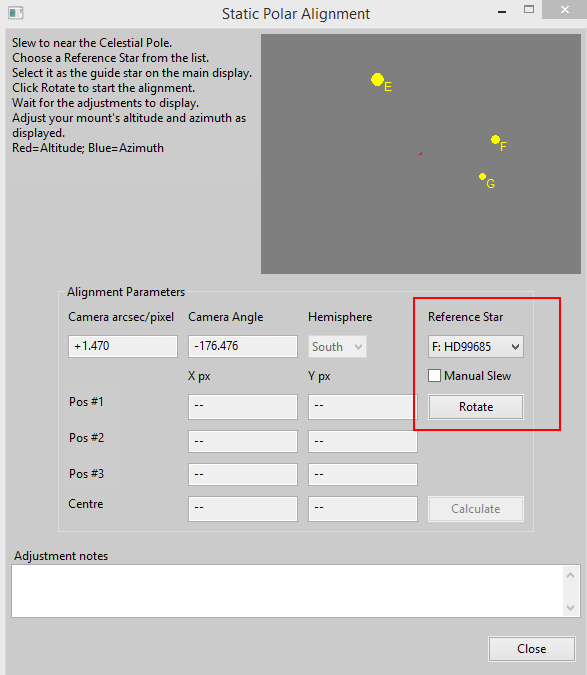
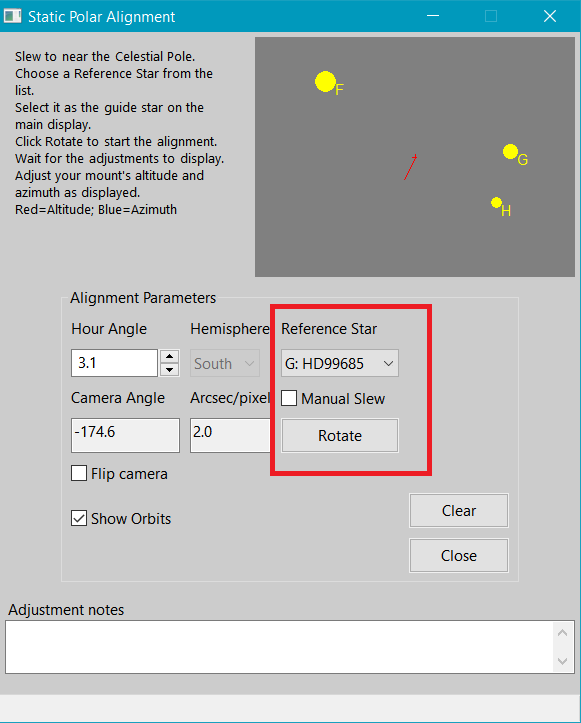
SPA tool revised tutorial

diff --git a/help/Tutorials.htm b/help/Tutorials.htm
@@ -160,10 +160,14 @@ The PHD2 main display would look like this (southern pole example):<br>
 <img style="width: 757px; height: 469px;" alt="" src="spa_IMG01a.png"><br>
 <br>
 <span style="">The
-image at the
+helper image at the
 top-right of the SPA window shows the approximate position of the polar
 stars
-oriented according to your PHD2 calibration and mount position. <o:p></o:p></span>
+oriented according to your PHD2 calibration and mount position. You can
+adjust the &#8216;Hour Angle&#8217; control or use the
+&#8216;Flip Camera&#8217; option to orient the
+helper image to the main display; or double click the helper image to
+alter its center point<o:p></o:p></span>
 <span style="">You have
 the option
 to use manual control by ticking the &#8216;Manual Slew&#8217; checkbox. Refer to
@@ -181,9 +185,9 @@ are ready
 to start aligning, click &#8216;Rotate&#8217;.<o:p></o:p></span>
 &nbsp;<span style="">The
 current
-position is indicated with a small blue circle on the main display. and
+position is indicated with a small blue circle on the main display, and
 the
-coordinates are added to Pos #1. Note that the &#8216;Rotate&#8217; button has
+coordinates are displayed in the status bar. Note that the &#8216;Rotate&#8217; button has
 changed to a
 &#8216;Stop&#8217; button. If you want to quit or stop the mount slewing, click the
 &#8216;Stop&#8217;
@@ -206,8 +210,7 @@ display.<o:p></o:p></span><br>
 made a
 mistake identifying your &#8216;Reference Star&#8217;, select the correct one in
 the
-drop-down list and click &#8216;Calculate&#8217; to re-display the Polar Alignment
-Overlay.</span>
+drop-down list.</span>
 <br>
 <span style="font-weight: normal;">Now
 follow the instructions
@@ -251,13 +254,16 @@ first window will open:<br>
 <br>
 <img style="width: 581px; height: 673px;" alt="" src="spa_IMG04.png"><br>
 <br>
-<span style="">The
+<span style="">The helper
 image at the
-top-right of the SPA window</span><span style="">shows
+top-right of the SPA window</span><span style=""> shows
 the
 approximate position of the polar stars oriented according to your
 calibration
-and the scope&#8217;s pointing position. </span>
+and the scope&#8217;s pointing position. You can
+adjust the &#8216;Hour Angle&#8217; control or use the &#8216;Flip Camera&#8217; option to orient the
+helper image to the main display; or double click the helper image to
+alter its center point.</span>
 <span style="">Use the
 image of
 the pole stars to select a &#8216;Reference Star&#8217; on the main PHD2 display. </span>
@@ -271,7 +277,7 @@ can be corrected later.</span><br>
 ready, click
 &#8216;Get first position&#8217;. The current position is indicated with a small
 blue
-circle on the main display, and the coordinates are added to Pos #1.</span><br>
+circle on the main display, and the coordinates are displayed in the status bar.</span><br>
 <br>
 <img style="width: 540px; height: 415px;" alt="" src="spa_IMG04a.png"><br>
 <br>
@@ -290,7 +296,7 @@ reference star on the main display.</span>
 &#8216;Get second
 position&#8217;. The position is marked with another small blue circle and
 the
-coordinates are added to Pos #2.<o:p></o:p></span><br>
+coordinates are displayed in the status bar.<o:p></o:p></span><br>
 <br>
 <img style="width: 543px; height: 391px;" alt="" src="spa_IMG05.png"><br>
 <br>
@@ -324,10 +330,7 @@ the bad
 point. The points do not have to be in order. </span>
 <br>
 <br>
-<span style="">Click
-&#8216;Calculate&#8217;
-to recalculate the alignment overlay<o:p></o:p></span>,
-which will be shown on the main display:<br>
+The corrected alignment graphic updates automatically.
 <br>
 <img style="width: 539px; height: 456px;" alt="" src="spa_IMG06.png"><br>
 <br>
@@ -355,40 +358,48 @@ of <st1:place w:st="on">Rotation</st1:place></st1:placetype>
 is indicated with a red +. </span></li>
 <li><span style="">A
 magenta circle
-shows the arc traced by your reference star.<o:p></o:p></span></li>
+shows the orbit traced by your reference star.<o:p></o:p></span></li>
 <li><span style="">A
 green circle
-shows the desired arc of your reference star when the polar alignment
+shows the desired orbit of your reference star when the polar alignment
 is
 accurate. <o:p></o:p></span></li>
 <li><span style="">Yellow
 circles show
-the arcs of the other reference stars.</span><span style="">&nbsp;</span></li>
+the orbits of the other reference stars.</span><span style="">&nbsp;</span></li>
 </ul>
+
 <span style=""><br>
 Within
 each of the
-green and yellow circles, a small circle indicates where the star
+green and yellow orbits, a small circle indicates where the star
 should be
-located. A grey line connects your reference star to its correct
-position on
-the green circle. These positions are dependent on the guide star being
+located. A grey line connects your reference star to its target
+circle on
+the green orbit. These positions are dependent on the guide star being
 correctly identified. </span><br>
 <span style="">A blue
 line shows
 the azimuth correction needed to move the reference star and a red line
 shows
 the altitude correction required.<o:p></o:p></span><br>
+<span style=""><br>
+To make the adjusment lines easier to see, the orbits can be shown or
+hidden with the &#8216;Show Orbits&#8217; option.</span><br>
 <span style="">Adjust
 your
-altitude and azimuth knobs to move your reference star to its desired
-position.
-Adjusting in altitude moves the reference star along the red line.<span style="">&nbsp; </span>Adjusting in azimuth moves
+altitude and azimuth knobs to move your reference star to its
+target circle.
+Adjusting in altitude moves the reference star along the red line.
+<span style="">&nbsp; </span>Adjusting in azimuth moves
 the reference star
 along the blue line. &nbsp;As an alternative,
-you can position three reference stars on their respective circles.
+you can position three reference stars on their respective orbits.
 This is
 important when using manual mode.</span><br>
+<span style="">To get the most accurate alignment, adjust the &#8216;Hour Angle&#8217;
+till the stars on the main display are all offset by the same amount and direction
+from their target circles. Then make your adjustments.</span><br>
 <span style="">To
 confirm, you can
 redo the process. You may need to adjust your declination to keep the
